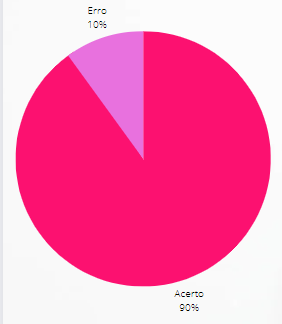
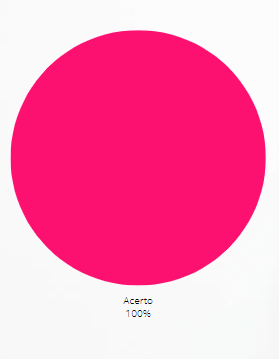
verificação storyboard

diff --git a/docs/verificacao/storyboard.md b/docs/verificacao/storyboard.md
@@ -48,7 +48,7 @@
 | 1  |  O documento possui introdução? | ✅ |
 | 2  |  O documento possui objetivo? | ✅ |
 | 3  |  O documento possui metodologia? | ✅ |
-| 4  |  O storyboard possui um planejamento? | ❌ |
+| 4  |  O storyboard possui um planejamento? | ✅ |
 | 5  |  As personas são condizentes com os perfis de usuário? | ✅ |
 | 6  |  Os storyboards possuem cenários condizentes com a realidade? | ✅ |
 | 7  |  Os storyboards possuem tarefas condizentes com a realidade? | ✅ |
@@ -66,7 +66,7 @@
 
 ### 3.1 Resultados
 
-&emsp;&emsp;A partir da inspeção do artefato verificamos que o documento não atende 1 dos critérios de avaliação definidos, dessa forma apresentando uma taxa e acertos de 90% como podemos ver a partir do gráfico abaixo:
+&emsp;&emsp;A partir da inspeção do artefato verificamos que o documento atende os critérios de avaliação definidos, dessa forma apresentando uma taxa e acertos de 100% como podemos ver a partir do gráfico abaixo:
 
 <center>
 
@@ -76,48 +76,6 @@
 
 <figcaption align='center'>
     <b>Figura 1: Gráfico resultado inspeção Storyboard </b>
-    <br><small> Fonte: Elaboração Própria </small>
-</figcaption>
-
-&emsp;&emsp;Dessa forma com o objetivo de melhorarmos a qualidade do artefato, geramos uma segunda versão do mesmo cumprindo com os critérios da checklist.
-
-## 4. Inspeção Storyboard V2
-&emsp;&emsp; A versão 2 da checklist com os critérios de avaliação pode ser encontrado abaixo: 
-
-<center>
-
-|ID|Questão| Inspeção |
-|-----------|-------------|-------------|
-| 1  |  O documento possui introdução? | ✅ |
-| 2  |  O documento possui objetivo? | ✅ |
-| 3  |  O documento possui metodologia? | ✅ |
-| 4  |  O storyboard possui um planejamento? | ✅ |
-| 5  |  As personas são condizentes com os perfis de usuário? | ✅ |
-| 6  |  Os storyboards possuem cenários condizentes com a realidade? | ✅ |
-| 7  |  Os storyboards possuem tarefas condizentes com a realidade? | ✅ |
-| 8  |  Os storyboards possuem uma tabela com os passos de realização de cada tarefa? | ✅ |
-| 9  |  Os storyboards possuem o resultado (satisfação) de cada persona ao realizar a tarefa? | ✅ |
-| 10 |  O documento possui conclusão? | ✅ |
-
-</center>
-
-<figcaption align='center'>
-    <b>Tabela 3: Checklist Inspeção - Storyboard V2</b>
-    <br><small> Fonte: Elaboração própria</small>
-</figcaption>
-
-### 4.1 Resultados
-
-&emsp;&emsp;A partir da inspeção do artefato verificamos que o documento atende os critérios de avaliação definidos, dessa forma apresentando uma taxa e acertos de 100% como podemos ver a partir do gráfico abaixo:
-
-<center>
-
-![Grafico](../assets/graficosVerificacao/grafico2_storyboard.png)
-
-</center>
-
-<figcaption align='center'>
-    <b>Figura 2: Gráfico resultado inspeção Storyboard </b>
     <br><small> Fonte: Elaboração Própria </small>
 </figcaption>
 
